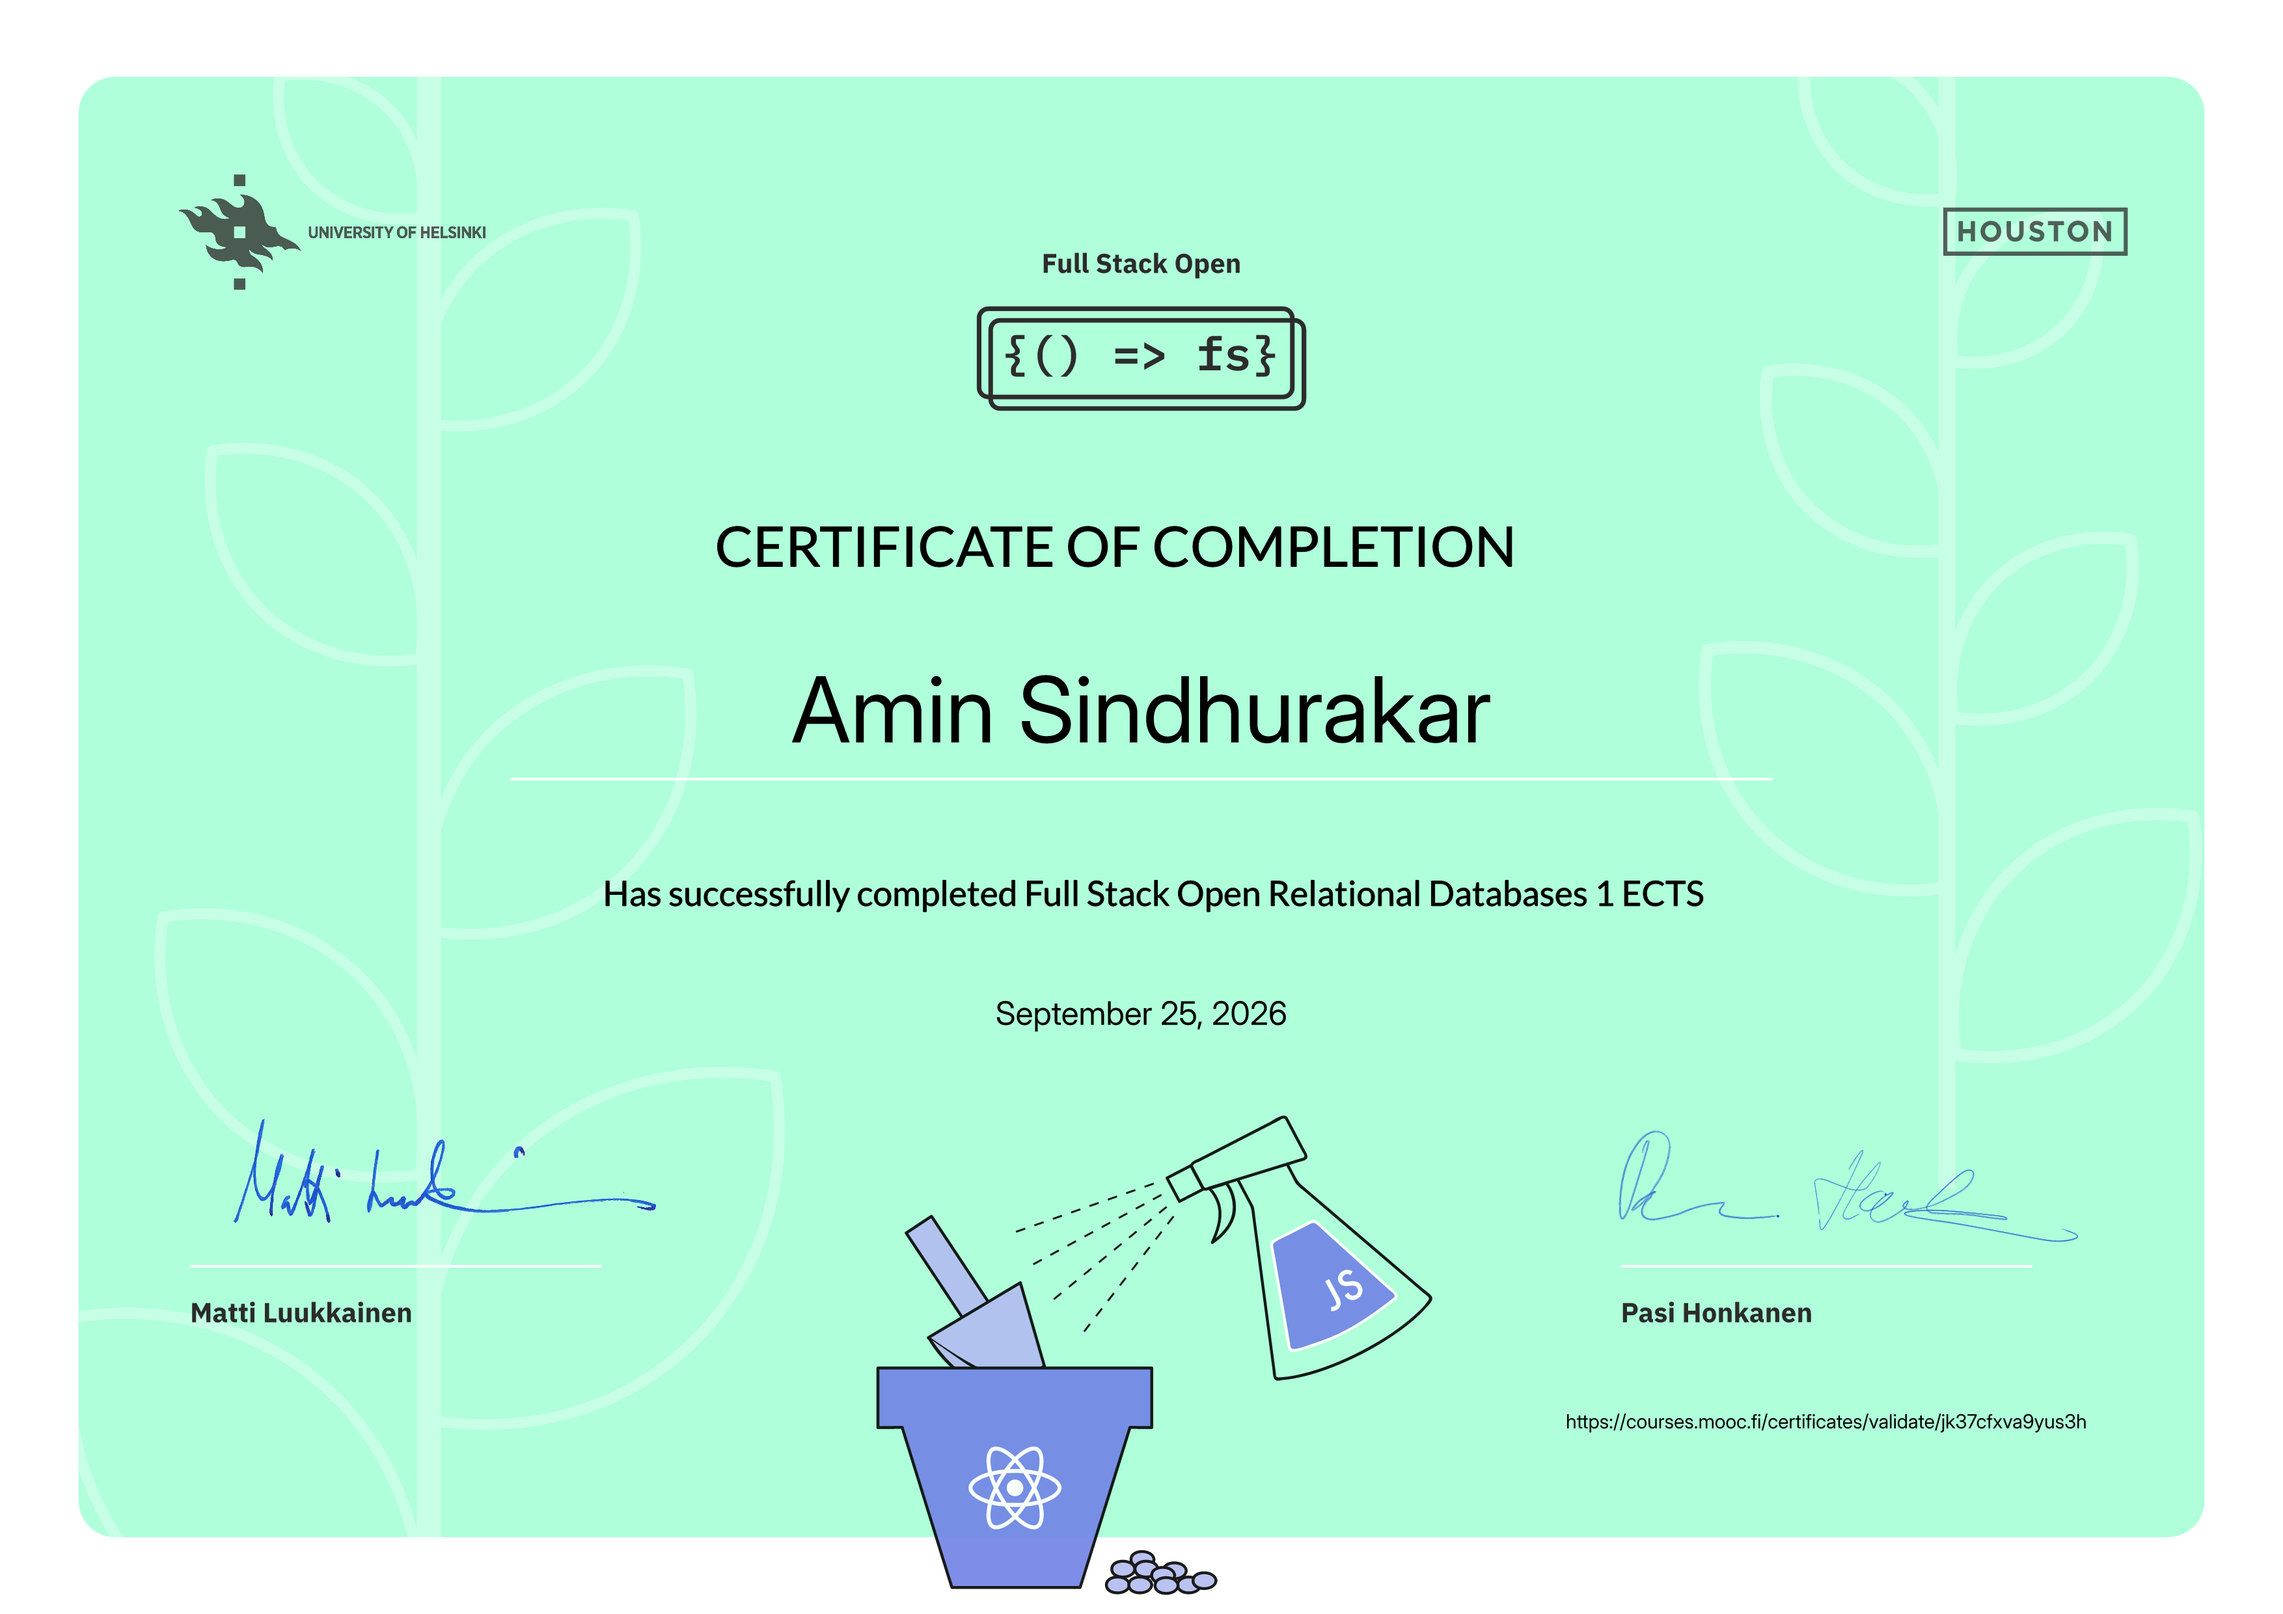
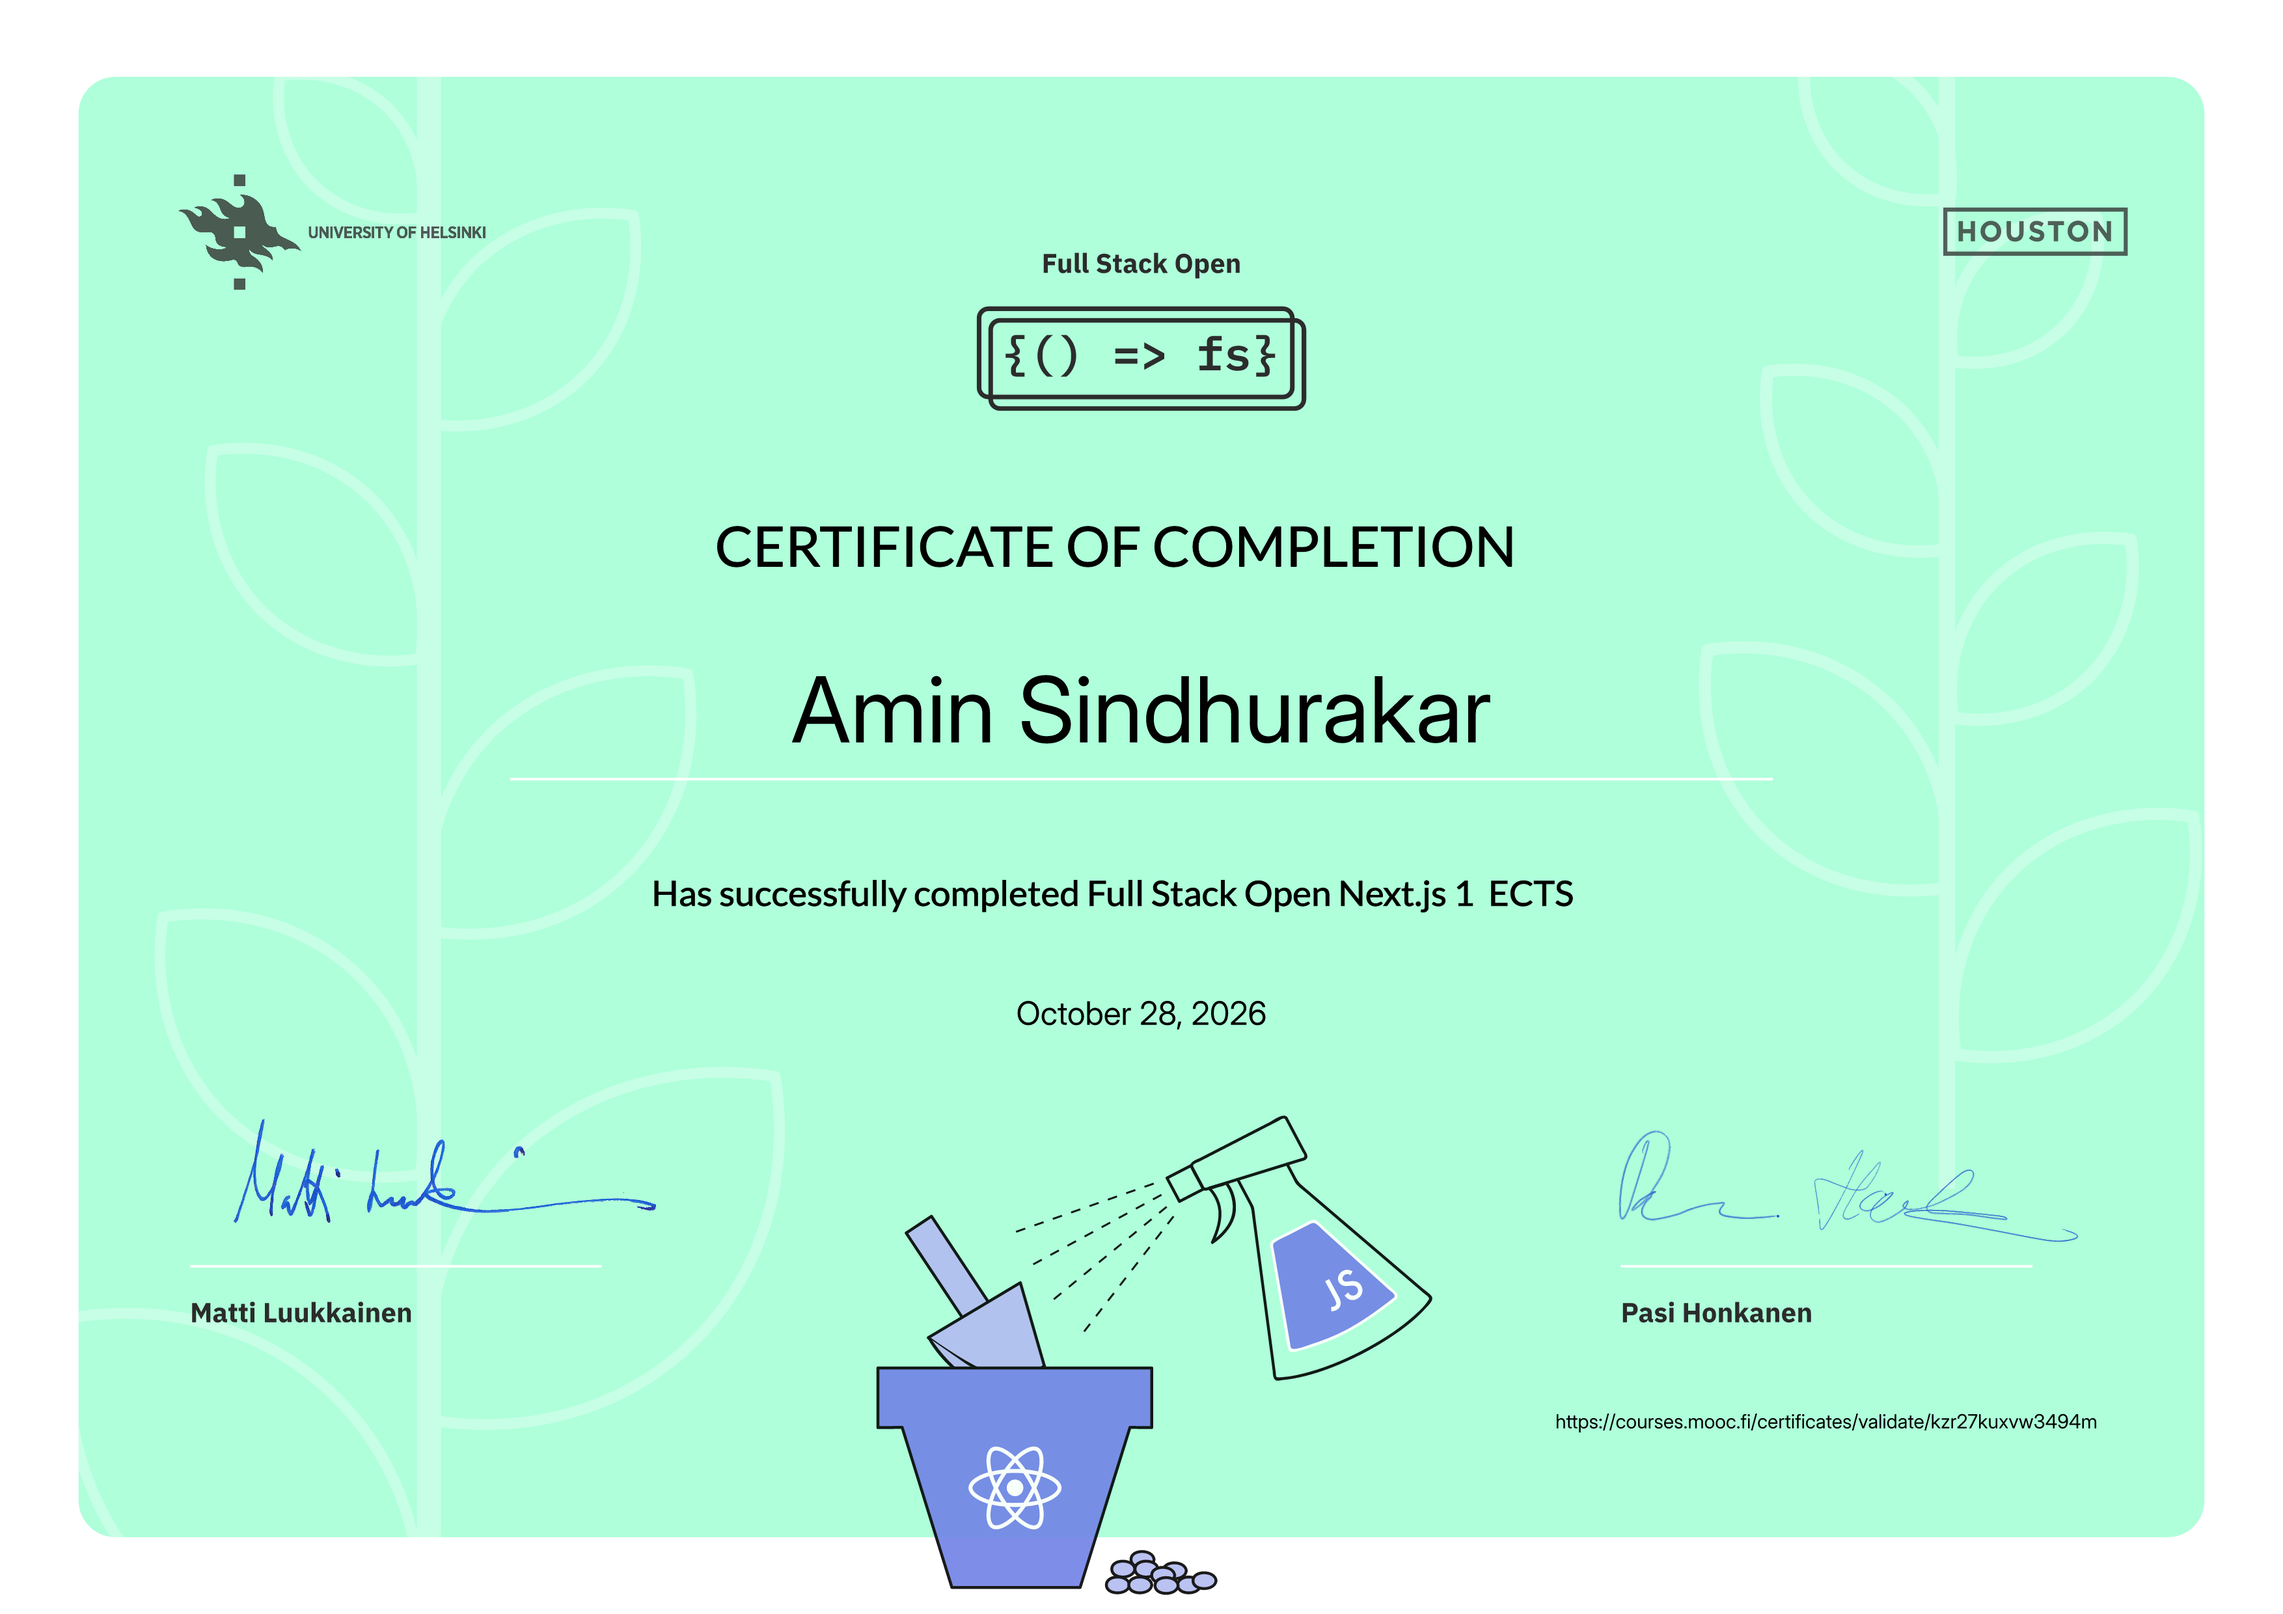
feat: add Next.js course certificate

Changed region(s): [[0.2796, 0.5278, 0.7457, 0.5589], [0.6836, 0.8694, 0.9011, 0.9004], [0.435, 0.621, 0.5593, 0.652]]

diff --git a/app/data/content.ts b/app/data/content.ts
@@ -214,22 +214,29 @@ export const projects: Project[] = [
 
 export const certificates: Certificate[] = [
   {
+    title: "Next.js - 1 ECTS",
+    issuer: "University of Helsinki",
+    year: "2026",
+    url: "https://courses.mooc.fi/certificates/validate/kzr27kuxvw3494m",
+    thumbnail: "/images/certificates/certificate-1.png",
+  },
+  {
     title: "Relational Databases - 1 ECTS",
     issuer: "University of Helsinki",
     year: "2026",
     url: "https://courses.mooc.fi/certificates/validate/jk37cfxva9yus3h",
-    thumbnail: "/images/certificates/certificate-1.png",
+    thumbnail: "/images/certificates/certificate-2.png",
   },
   {
     title: "Frontend Developer (React)",
     year: "2026",
     url: "https://www.hackerrank.com/certificates/iframe/526627babed0",
-    thumbnail: "/images/certificates/certificate-2.png",
-  },
-  {
-    title: "JavaScript (Intermediate)",
-    year: "2026",
-    url: "https://www.hackerrank.com/certificates/iframe/fdc0dec65b6a",
     thumbnail: "/images/certificates/certificate-3.png",
   },
+  // {
+  //   title: "JavaScript (Intermediate)",
+  //   year: "2026",
+  //   url: "https://www.hackerrank.com/certificates/iframe/fdc0dec65b6a",
+  //   thumbnail: "/images/certificates/certificate-4.png",
+  // },
 ];
